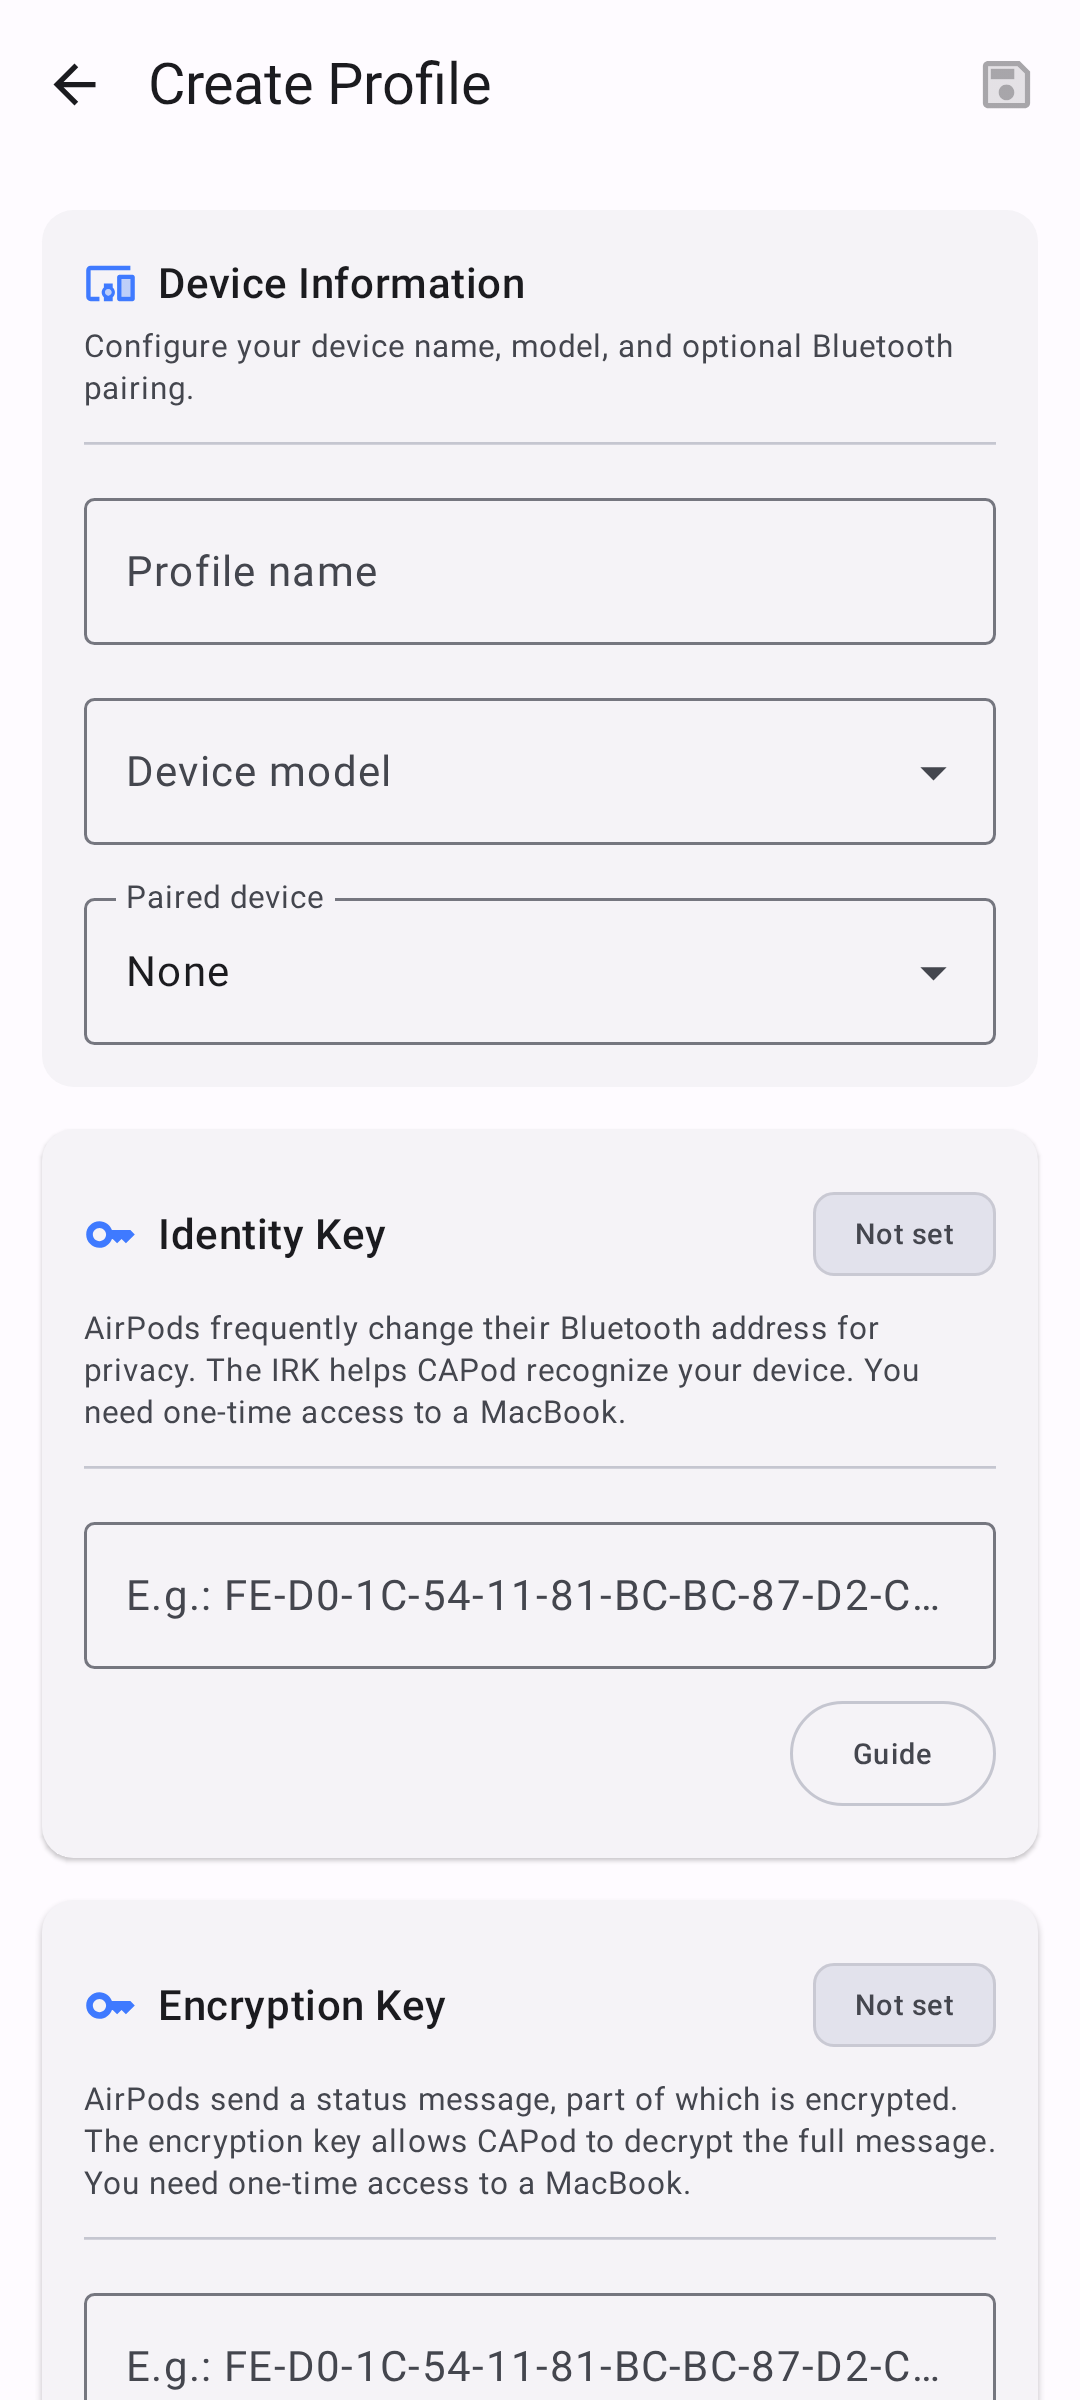
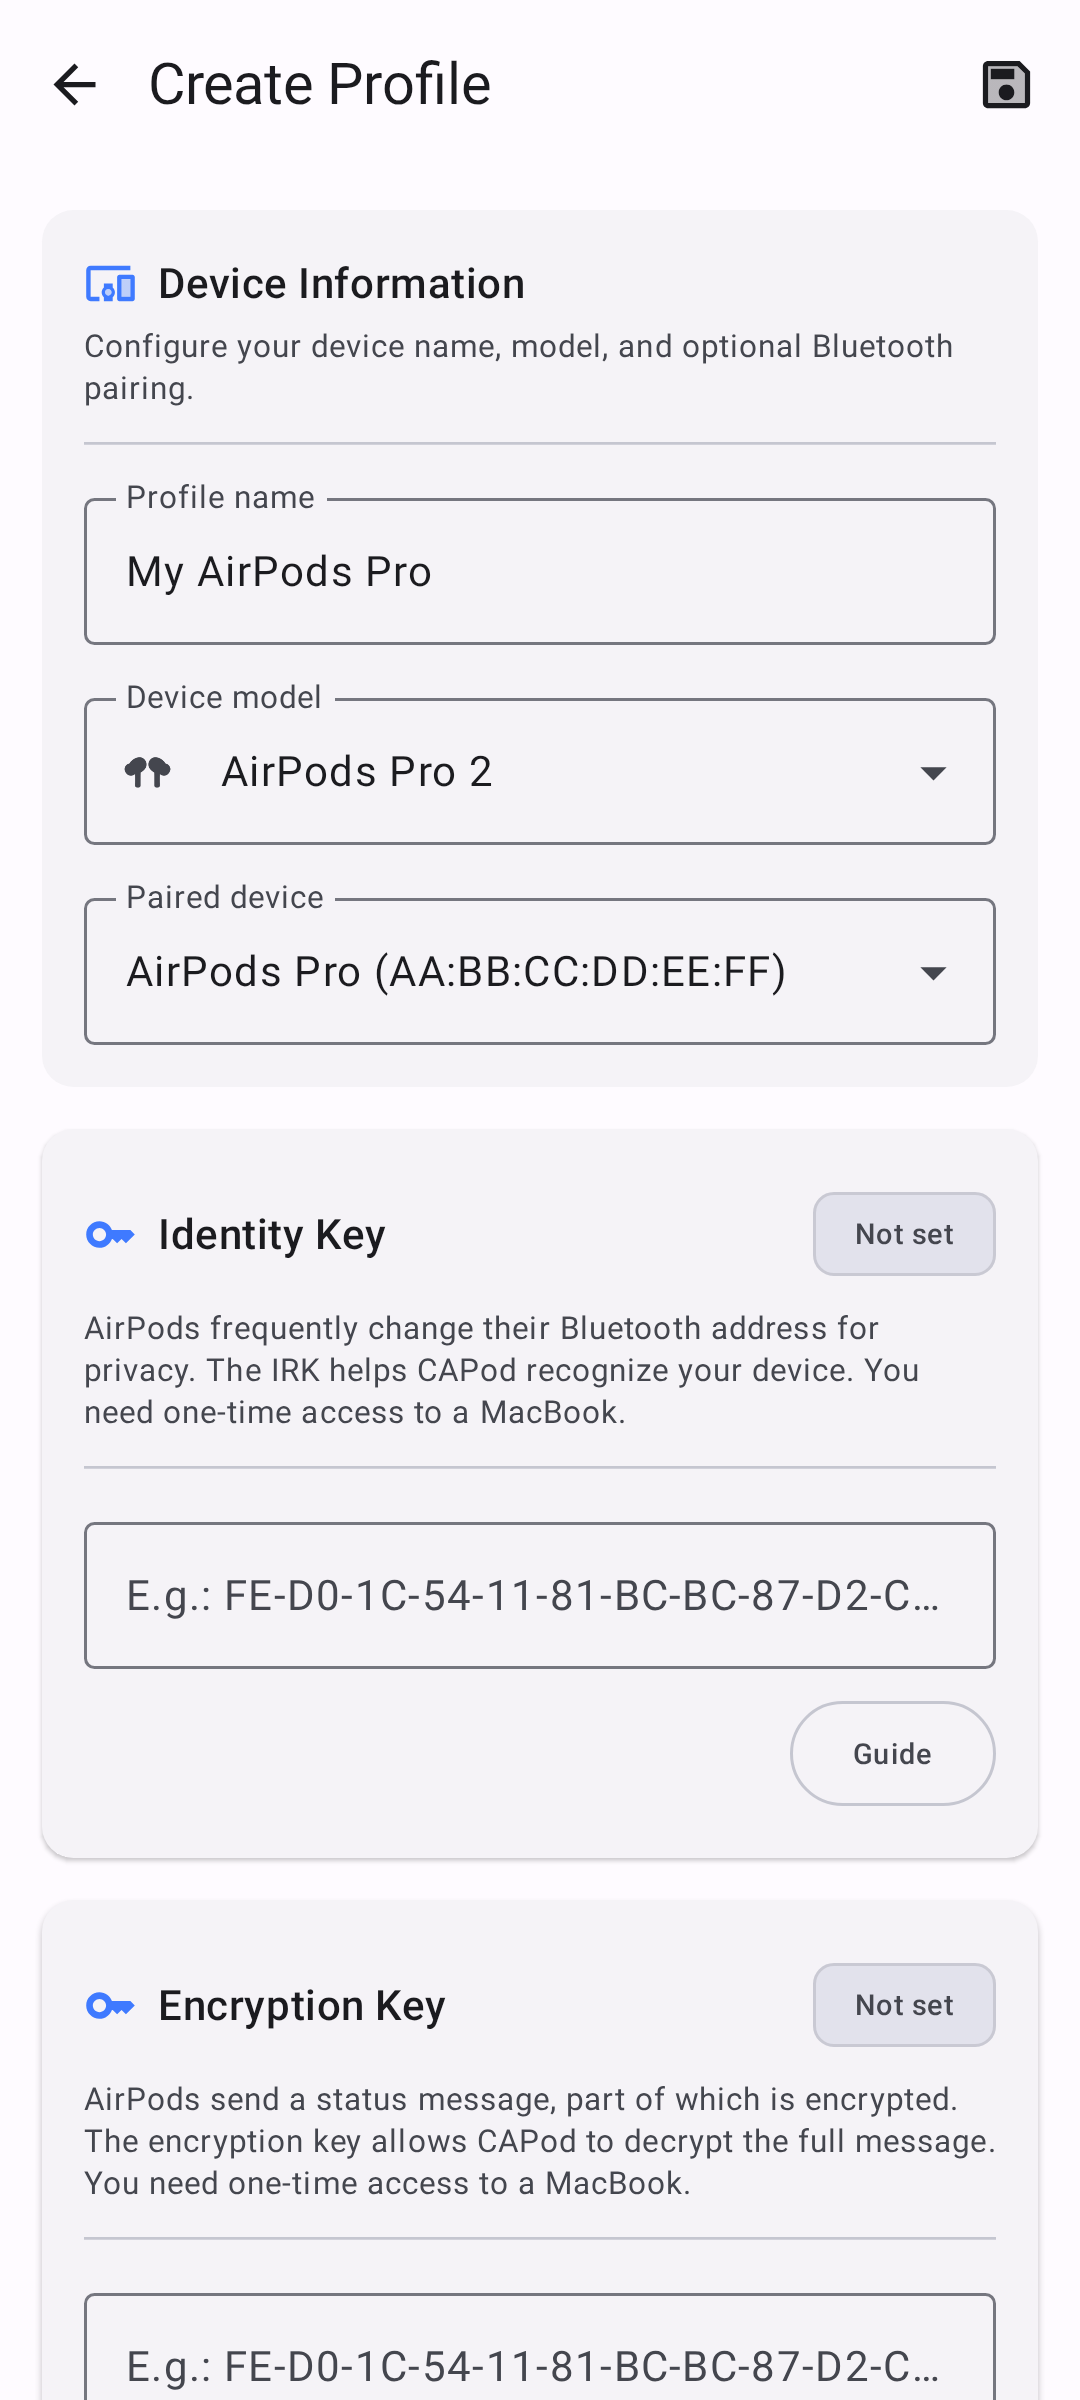
chore(screenshots): Improve dashboard and add-profile previews
Use AAP-connected mocks for the dark dashboard to showcase full connectivity badges (BLE + IRK + encrypted + AAP) and the ANC mode selector. Populate the add-profile preview with a demo name, model, and paired device. Add user-facing labels to the dashboard mock devices.

Refactor BluetoothDevice2 so name/address are primary constructor fields, letting previews construct one without a real Android BluetoothDevice. Bump the screenshot test JVM heap to 4g — the smoke batch (42 renders) was hitting the test executor's default ceiling.

diff --git a/app/src/debug/java/eu/darken/capod/screenshots/ScreenshotContent.kt b/app/src/debug/java/eu/darken/capod/screenshots/ScreenshotContent.kt
@@ -14,6 +14,7 @@ import androidx.compose.ui.graphics.Color
 import androidx.compose.ui.graphics.toArgb
 import androidx.compose.ui.tooling.preview.Preview
 import androidx.compose.ui.unit.dp
+import eu.darken.capod.common.bluetooth.BluetoothDevice2
 import eu.darken.capod.common.compose.PreviewWrapper
 import eu.darken.capod.common.compose.preview.MOCK_NOW
 import eu.darken.capod.common.compose.preview.MockPodDataProvider
@@ -37,16 +38,25 @@ import eu.darken.capod.reaction.ui.popup.PopUpContent as PopUpCard
 internal const val DS = "spec:width=1080px,height=2400px,dpi=428"
 
 @Composable
-internal fun DashboardContent() = PreviewWrapper {
+internal fun DashboardContent(showAap: Boolean = false) = PreviewWrapper {
+    val devices = if (showAap) {
+        listOf(
+            MockPodDataProvider.dualPodMonitoredWithAap(),
+            MockPodDataProvider.singlePodMonitoredWithAap(),
+            MockPodDataProvider.unknownMonitored(),
+        )
+    } else {
+        listOf(
+            MockPodDataProvider.dualPodMonitoredMixed(),
+            MockPodDataProvider.singlePodMonitored(),
+            MockPodDataProvider.unknownMonitored(),
+        )
+    }
     OverviewScreen(
         state = OverviewViewModel.State(
             now = MOCK_NOW,
             permissions = emptySet(),
-            devices = listOf(
-                MockPodDataProvider.dualPodMonitoredMixed(),
-                MockPodDataProvider.singlePodMonitored(),
-                MockPodDataProvider.unknownMonitored(),
-            ),
+            devices = devices,
             isDebugMode = false,
             isBluetoothEnabled = true,
             profiles = listOf(
@@ -83,19 +93,38 @@ internal fun DeviceProfilesContent() = PreviewWrapper {
 
 @Composable
 internal fun AddProfileContent() = PreviewWrapper {
+    val pairedAirPods = BluetoothDevice2(
+        address = "AA:BB:CC:DD:EE:FF",
+        name = "AirPods Pro",
+        seenFirstAt = MOCK_NOW,
+    )
+    val bondedItems = listOf(
+        DeviceProfileCreationViewModel.BondedDeviceItem(
+            device = pairedAirPods,
+            claimedByProfile = null,
+        ),
+        DeviceProfileCreationViewModel.BondedDeviceItem(
+            device = BluetoothDevice2(
+                address = "11:22:33:44:55:66",
+                name = "Living Room TV",
+                seenFirstAt = MOCK_NOW,
+            ),
+            claimedByProfile = null,
+        ),
+    )
     DeviceProfileCreationScreen(
         state = DeviceProfileCreationViewModel.State(
             isEditMode = false,
-            name = "",
+            name = "My AirPods Pro",
             nameError = null,
-            selectedModel = null,
+            selectedModel = PodModel.AIRPODS_PRO2,
             availableModels = PodModel.entries.filter { it != PodModel.UNKNOWN },
             identityKey = null,
             encryptionKey = null,
-            selectedDevice = null,
-            bondedDeviceItems = emptyList(),
+            selectedDevice = pairedAirPods,
+            bondedDeviceItems = bondedItems,
             minimumSignalQuality = 0.15f,
-            canSave = false,
+            canSave = true,
         ),
         onBack = {},
         onSave = {},
@@ -212,7 +241,7 @@ private fun PreviewDashboardLight() = DashboardContent()
 
 @Preview(name = "2 - Dashboard Dark", locale = "en", device = DS, uiMode = Configuration.UI_MODE_NIGHT_YES, showSystemUi = true)
 @Composable
-private fun PreviewDashboardDark() = DashboardContent()
+private fun PreviewDashboardDark() = DashboardContent(showAap = true)
 
 @Preview(name = "3 - Case Pop-up", device = DS, showSystemUi = true)
 @Composable

diff --git a/app/src/main/java/eu/darken/capod/common/bluetooth/BluetoothManager2.kt b/app/src/main/java/eu/darken/capod/common/bluetooth/BluetoothManager2.kt
@@ -255,6 +255,8 @@ class BluetoothManager2 @Inject constructor(
                 }
                 .map { device ->
                     BluetoothDevice2(
+                        address = device.address,
+                        name = device.name,
                         internal = device,
                         seenFirstAt = seenDevicesLock.withLock {
                             seenDevicesCache[device.address] ?: run {
@@ -304,6 +306,8 @@ class BluetoothManager2 @Inject constructor(
         val wrappedDevices = rawDevices.map { device ->
 
             BluetoothDevice2(
+                address = device.address,
+                name = device.name,
                 internal = device,
                 seenFirstAt = seenDevicesLock.withLock {
                     seenDevicesCache[device.address] ?: run {
@@ -408,9 +412,10 @@ class BluetoothManager2 @Inject constructor(
     @android.annotation.SuppressLint("MissingPermission")
     fun setDeviceAlias(device: BluetoothDevice2, alias: String): Boolean {
         return try {
+            val target = device.internal ?: return false
             val method = BluetoothDevice::class.java.getDeclaredMethod("setAlias", String::class.java)
                 .apply { isAccessible = true }
-            val result = method.invoke(device.internal, alias) as? Boolean ?: false
+            val result = method.invoke(target, alias) as? Boolean ?: false
             log(TAG) { "setDeviceAlias(${device.address}, $alias) -> $result" }
             result
         } catch (e: Exception) {
@@ -424,11 +429,12 @@ class BluetoothManager2 @Inject constructor(
         try {
             log(TAG) { "Nudging Android connection to $device" }
 
+            val target = device.internal ?: return@map false
             val connectMethod = BluetoothHeadset::class.java.getDeclaredMethod(
                 "connect", BluetoothDevice::class.java
             ).apply { isAccessible = true }
 
-            val accepted = connectMethod.invoke(bluetoothProfile.proxy, device.internal) as? Boolean ?: false
+            val accepted = connectMethod.invoke(bluetoothProfile.proxy, target) as? Boolean ?: false
             log(TAG) { "Nudged connection to $device — accepted=$accepted" }
             accepted
         } catch (e: Exception) {

diff --git a/app/src/main/java/eu/darken/capod/monitor/core/aap/AapAutoConnect.kt b/app/src/main/java/eu/darken/capod/monitor/core/aap/AapAutoConnect.kt
@@ -76,7 +76,7 @@ class AapAutoConnect @Inject constructor(
 
         log(TAG) { "AAP connecting to $address (${profile.label})" }
         try {
-            aapManager.connect(address, bonded.internal, profile.model)
+            aapManager.connect(address, bonded.internal!!, profile.model)
             log(TAG) { "AAP connected to $address" }
         } catch (e: Exception) {
             log(TAG, WARN) { "AAP initial connect failed for $address: ${e.message}" }
@@ -99,7 +99,7 @@ class AapAutoConnect @Inject constructor(
 
                 try {
                     log(TAG) { "AAP initial retry ${attempt + 1} for $address after ${delayMs}ms" }
-                    aapManager.connect(address, bonded.internal, profile.model)
+                    aapManager.connect(address, bonded.internal!!, profile.model)
                     log(TAG) { "AAP connected to $address on retry ${attempt + 1}" }
                     break
                 } catch (retryException: Exception) {
@@ -159,7 +159,7 @@ class AapAutoConnect @Inject constructor(
 
                     try {
                         log(TAG) { "AAP reconnect attempt ${attempt + 1} for $address in ${delayMs}ms" }
-                        aapManager.connect(address, bonded.internal, profile.model)
+                        aapManager.connect(address, bonded.internal!!, profile.model)
                         log(TAG) { "AAP reconnected to $address" }
                         break
                     } catch (e: Exception) {
@@ -211,7 +211,7 @@ class AapAutoConnect @Inject constructor(
                     val bonded = bluetoothManager.bondedDevices().first()
                         .firstOrNull { it.address == address }
                     if (bonded != null) {
-                        aapManager.connect(address, bonded.internal, detectedModel)
+                        aapManager.connect(address, bonded.internal!!, detectedModel)
                         log(TAG) { "AAP reconnected $address with corrected model $detectedModel" }
                     }
                 } catch (e: Exception) {

diff --git a/app/src/main/java/eu/darken/capod/common/compose/preview/MockPodDataProvider.kt b/app/src/main/java/eu/darken/capod/common/compose/preview/MockPodDataProvider.kt
@@ -180,18 +180,21 @@ object MockPodDataProvider {
 
     fun dualPodMonitoredMixed(): PodDevice = PodDevice(
         profileId = "preview-dual-mixed",
+        label = "My AirPods Pro",
         ble = airPodsProMixed(),
         aap = null,
     )
 
     fun dualPodMonitoredWithKeys(): PodDevice = PodDevice(
         profileId = "preview-dual-keys",
+        label = "My AirPods Pro",
         ble = airPodsProWithKeys(),
         aap = null,
     )
 
     fun dualPodMonitoredWithAap(): PodDevice = PodDevice(
         profileId = "preview-dual-aap",
+        label = "My AirPods Pro",
         ble = airPodsProWithKeys(),
         aap = AapPodState(
             connectionState = AapPodState.ConnectionState.READY,
@@ -227,12 +230,14 @@ object MockPodDataProvider {
 
     fun singlePodMonitored(): PodDevice = PodDevice(
         profileId = "preview-single",
+        label = "AirPods Max",
         ble = airPodsMax(),
         aap = null,
     )
 
     fun singlePodMonitoredWithAap(): PodDevice = PodDevice(
         profileId = "preview-single-aap",
+        label = "AirPods Max",
         ble = airPodsMaxCharging(),
         aap = AapPodState(
             connectionState = AapPodState.ConnectionState.READY,

diff --git a/app/src/main/java/eu/darken/capod/common/bluetooth/BluetoothDevice2.kt b/app/src/main/java/eu/darken/capod/common/bluetooth/BluetoothDevice2.kt
@@ -4,12 +4,8 @@ import android.bluetooth.BluetoothDevice
 import java.time.Instant
 
 data class BluetoothDevice2(
-    internal val internal: BluetoothDevice,
+    val address: BluetoothAddress,
+    val name: String?,
     val seenFirstAt: Instant,
-) {
-    val address: BluetoothAddress
-        get() = internal.address
-
-    val name: String?
-        get() = internal.name
-}
+    internal val internal: BluetoothDevice? = null,
+)

diff --git a/app/src/screenshotTest/kotlin/eu/darken/capod/screenshots/PlayStoreScreenshots.kt b/app/src/screenshotTest/kotlin/eu/darken/capod/screenshots/PlayStoreScreenshots.kt
@@ -12,7 +12,7 @@ fun DashboardLight() = DashboardContent()
 @PreviewTest
 @PlayStoreLocalesDark
 @Composable
-fun DashboardDark() = DashboardContent()
+fun DashboardDark() = DashboardContent(showAap = true)
 
 @PreviewTest
 @PlayStoreLocales
